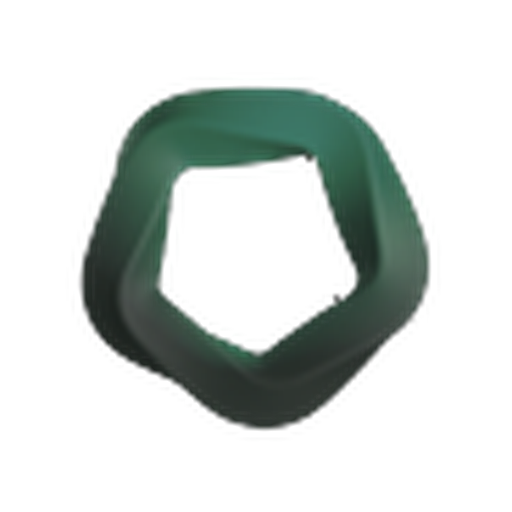
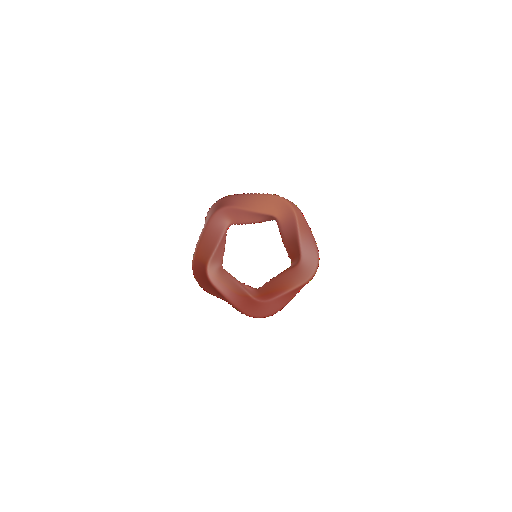
Rebrand to dark theme with terracotta #964132.
Swap logo and favicons, retint design tokens and hero mesh colors, and adjust a few hard-coded light/green surfaces so the existing layout reads high-tech dark without changing structure or motion.

Changed region(s): [[0.1562, 0.1562, 0.8438, 0.8438], [0.375, 0.375, 0.625, 0.625]]

diff --git a/src/components/marketing/talent-categories-section.tsx b/src/components/marketing/talent-categories-section.tsx
@@ -20,7 +20,7 @@ const talentServices: Service[] = [
     description:
       "Software engineers, architects, and specialists across hundreds of stacks — from backend systems to mobile and AI.",
     icon: Code,
-    gradient: "from-canvas via-[#e7f3ee] to-[#d8ebe3]",
+    gradient: "from-canvas via-[#1a1210] to-[#2a1814]",
   },
   {
     number: "002",
@@ -28,7 +28,7 @@ const talentServices: Service[] = [
     description:
       "Product, UI/UX, and brand designers who ship production interfaces, not just decks.",
     icon: Palette,
-    gradient: "from-[#eef4f1] via-canvas to-[#dce9e2]",
+    gradient: "from-[#161210] via-canvas to-[#241612]",
   },
   {
     number: "003",
@@ -36,7 +36,7 @@ const talentServices: Service[] = [
     description:
       "Operators who turn ambiguous problems into shipped roadmaps and measurable outcomes.",
     icon: RocketLaunch,
-    gradient: "from-[#e6f0eb] to-[#f3f7f5]",
+    gradient: "from-[#1c1411] to-[#120e0c]",
   },
   {
     number: "004",
@@ -44,7 +44,7 @@ const talentServices: Service[] = [
     description:
       "Data scientists, ML engineers, and applied researchers ready for production workloads.",
     icon: Brain,
-    gradient: "from-[#e0efe8] via-[#ebf5f0] to-canvas",
+    gradient: "from-[#201510] via-[#2a1814] to-canvas",
   },
   {
     number: "005",
@@ -52,7 +52,7 @@ const talentServices: Service[] = [
     description:
       "Growth, demand gen, and brand specialists who scale acquisition with accountability.",
     icon: ChartLineUp,
-    gradient: "from-canvas to-[#d9ebe3]",
+    gradient: "from-canvas to-[#241612]",
   },
   {
     number: "006",
@@ -60,7 +60,7 @@ const talentServices: Service[] = [
     description:
       "Technical PMs and scrum leaders who keep complex delivery on track.",
     icon: UsersThree,
-    gradient: "from-[#e8f2ed] to-[#f4f8f6]",
+    gradient: "from-[#1a1210] to-[#100e0c]",
   },
 ];
 

diff --git a/src/components/marketing/talent-photo-card.tsx b/src/components/marketing/talent-photo-card.tsx
@@ -22,7 +22,7 @@ export function TalentPhotoCard({ person }: { person: TalentPerson }) {
   const Icon = disciplineIcon[person.discipline];
 
   return (
-    <article className="group flex h-full min-h-[148px] overflow-hidden rounded-md bg-white shadow-[0_1px_2px_rgba(15,23,42,0.04),0_8px_24px_rgba(15,23,42,0.06)] ring-1 ring-black/[0.04] transition duration-300 ease-[cubic-bezier(0.22,1,0.36,1)] hover:-translate-y-0.5 hover:shadow-[0_2px_4px_rgba(15,23,42,0.05),0_16px_32px_rgba(15,23,42,0.1)]">
+    <article className="group flex h-full min-h-[148px] overflow-hidden rounded-md bg-panel shadow-[0_1px_2px_rgba(0,0,0,0.35),0_8px_24px_rgba(0,0,0,0.28)] ring-1 ring-white/[0.06] transition duration-300 ease-[cubic-bezier(0.22,1,0.36,1)] hover:-translate-y-0.5 hover:shadow-[0_2px_4px_rgba(0,0,0,0.4),0_16px_32px_rgba(0,0,0,0.35)]">
       <div className="relative w-[42%] shrink-0 self-stretch bg-canvas">
         <Image
           src={person.photo}
@@ -34,7 +34,7 @@ export function TalentPhotoCard({ person }: { person: TalentPerson }) {
       </div>
 
       <div className="flex min-w-0 flex-1 flex-col justify-center px-3.5 py-3.5 sm:px-4">
-        <h3 className="font-display text-[15px] font-semibold leading-snug tracking-tight text-ink sm:text-base">
+        <h3 className="font-display text-[15px] font-semibold leading-snug tracking-tight text-foreground sm:text-base">
           {person.name}
         </h3>
         <p className="mt-1.5 flex items-start gap-1.5 text-[13px] leading-snug text-muted">

diff --git a/src/app/globals.css b/src/app/globals.css
@@ -2,29 +2,29 @@
 
 :root {
   /* Brand / marketing (dark chamber) */
-  --ink: #07140f;
-  --ink-elevated: #0c1f18;
-  --signal-dark: #1fa97a;
-  --signal-dark-strong: #178a63;
-  --mist: #b7f0d4;
-  --chalk: #f3f7f5;
+  --ink: #050403;
+  --ink-elevated: #100e0c;
+  --signal-dark: #b54e3c;
+  --signal-dark-strong: #964132;
+  --mist: #e8d0c6;
+  --chalk: #f4efe9;
 
-  /* Work UI (light structural) */
-  --canvas: #f3f7f5;
-  --panel: #ffffff;
-  --foreground: #0c1410;
-  --muted: #5c6b63;
-  --line: #d5e0d9;
-  --signal: #0f8f6c;
-  --signal-strong: #0a6b51;
+  /* Work UI (dark structural) */
+  --canvas: #0b0a09;
+  --panel: #131110;
+  --foreground: #f4efe9;
+  --muted: #9a9188;
+  --line: #2a2622;
+  --signal: #964132;
+  --signal-strong: #7a3428;
 
   /* Semantic */
-  --danger: #c43c3c;
-  --warn: #c48a1a;
-  --ok: #1fa97a;
-  --focus: #1fa97a;
+  --danger: #e05a5a;
+  --warn: #d4a017;
+  --ok: #b54e3c;
+  --focus: #b54e3c;
 
-  /* Defaults for light surfaces */
+  /* Defaults for dark surfaces */
   --background: var(--canvas);
 }
 
@@ -55,6 +55,7 @@
 @layer base {
   html {
     scroll-behavior: smooth;
+    color-scheme: dark;
   }
 
   @media (prefers-reduced-motion: reduce) {
@@ -70,8 +71,8 @@
   }
 
   ::selection {
-    background: color-mix(in oklab, var(--signal) 35%, white);
-    color: var(--ink);
+    background: color-mix(in oklab, var(--signal) 45%, transparent);
+    color: var(--chalk);
   }
 
   :focus-visible {

diff --git a/src/components/skills/skill-talent-card.tsx b/src/components/skills/skill-talent-card.tsx
@@ -5,8 +5,8 @@ import type { ShowcaseTalent } from "@/lib/skills/types";
 
 export function SkillTalentCard({ person }: { person: ShowcaseTalent }) {
   return (
-    <article className="grid gap-6 rounded-lg border border-line bg-panel p-5 shadow-[0_1px_2px_rgba(15,23,42,0.04),0_8px_24px_rgba(15,23,42,0.04)] ring-1 ring-black/[0.03] transition duration-300 ease-[cubic-bezier(0.22,1,0.36,1)] hover:-translate-y-0.5 hover:border-signal/25 hover:shadow-[0_2px_4px_rgba(15,23,42,0.05),0_14px_28px_rgba(15,23,42,0.07)] sm:grid-cols-[160px_minmax(0,1fr)] sm:gap-8 sm:p-6">
-      <div className="relative mx-auto aspect-[4/5] w-full max-w-[160px] overflow-hidden rounded-md bg-canvas ring-1 ring-black/[0.04] sm:mx-0">
+    <article className="grid gap-6 rounded-lg border border-line bg-panel p-5 shadow-[0_1px_2px_rgba(0,0,0,0.35),0_8px_24px_rgba(0,0,0,0.28)] ring-1 ring-white/[0.06] transition duration-300 ease-[cubic-bezier(0.22,1,0.36,1)] hover:-translate-y-0.5 hover:border-signal/25 hover:shadow-[0_2px_4px_rgba(0,0,0,0.4),0_14px_28px_rgba(0,0,0,0.35)] sm:grid-cols-[160px_minmax(0,1fr)] sm:gap-8 sm:p-6">
+      <div className="relative mx-auto aspect-[4/5] w-full max-w-[160px] overflow-hidden rounded-md bg-canvas ring-1 ring-white/[0.06] sm:mx-0">
         <Image
           src={person.photo}
           alt={person.name}

diff --git a/src/components/ui/mesh-portfolio.tsx b/src/components/ui/mesh-portfolio.tsx
@@ -285,18 +285,28 @@ void main() {
 `
 
 const UNIFORMS = {
-  colors: [[0.9803921568627451,0.9803921568627451,0.9803921568627451],[0.9686274509803922,0.8431372549019608,0.592156862745098],[0.9686274509803922,0.7529411764705882,0.592156862745098],[0.9686274509803922,0.7529411764705882,0.592156862745098],[0.9686274509803922,0.7529411764705882,0.592156862745098],[0.9686274509803922,0.7529411764705882,0.592156862745098],[0.9686274509803922,0.7529411764705882,0.592156862745098],[0.9686274509803922,0.7529411764705882,0.592156862745098]] as [number, number, number][],
-  colorCount: 3,
+  // Dark tech fluid mesh: deep charcoal + brand terracotta (#964132) + warm highlights
+  colors: [
+    [0.039, 0.035, 0.031],
+    [0.102, 0.059, 0.047],
+    [0.588, 0.255, 0.196],
+    [0.769, 0.353, 0.259],
+    [0.910, 0.722, 0.604],
+    [0.588, 0.255, 0.196],
+    [0.102, 0.059, 0.047],
+    [0.039, 0.035, 0.031],
+  ] as [number, number, number][],
+  colorCount: 5,
   scale: 1.500,
   intensity: 0.500,
   paramA: 0.280,
   warp: 0.000,
   detail: 1.824,
   contrast: 0.987,
-  brightness: 0.000,
+  brightness: -0.040,
   saturation: 1.000,
   hue: 0.0000,
-  vignette: 0.000,
+  vignette: 0.180,
   blur: 0.0000,
   grain: 0.070,
   seed: 1.0,

diff --git a/src/components/marketing/feature-card.tsx b/src/components/marketing/feature-card.tsx
@@ -8,9 +8,9 @@ export type FeatureCardColors = {
 };
 
 export const sortieFeatureColors: FeatureCardColors = {
-  bg: "bg-[#eef6f2]",
+  bg: "bg-[#1a1412]",
   text: "text-signal",
-  border: "border-signal/15",
+  border: "border-signal/25",
 };
 
 type FeatureCardProps = {
@@ -32,7 +32,7 @@ export function FeatureCard({
 }: FeatureCardProps) {
   return (
     <div className={cn("relative w-full", className)}>
-      <div className="flex h-full flex-col rounded-[25px] border border-line bg-panel p-2 shadow-[0_10px_28px_rgba(15,23,42,0.08)] transition-transform duration-300 ease-[cubic-bezier(0.22,1,0.36,1)] hover:-translate-y-0.5 hover:shadow-[0_14px_32px_rgba(15,23,42,0.1)]">
+      <div className="flex h-full flex-col rounded-[25px] border border-line bg-panel p-2 shadow-[0_10px_28px_rgba(0,0,0,0.35)] transition-transform duration-300 ease-[cubic-bezier(0.22,1,0.36,1)] hover:-translate-y-0.5 hover:shadow-[0_14px_32px_rgba(0,0,0,0.45)]">
         <Icon
           className={cn("mx-auto mb-3 mt-2 h-8 w-8 shrink-0", colors.text)}
           weight="regular"

diff --git a/src/components/marketing/network-talent-card.tsx b/src/components/marketing/network-talent-card.tsx
@@ -27,7 +27,7 @@ export function NetworkTalentCard({ person }: { person: NetworkTalentPerson }) {
     disciplineIcon[person.discipline as keyof typeof disciplineIcon] ?? Code;
 
   return (
-    <article className="group flex h-full flex-col overflow-hidden rounded-md bg-panel shadow-[0_1px_2px_rgba(15,23,42,0.04),0_6px_18px_rgba(15,23,42,0.05)] ring-1 ring-black/[0.04] transition duration-300 ease-[cubic-bezier(0.22,1,0.36,1)] hover:-translate-y-0.5 hover:shadow-[0_2px_4px_rgba(15,23,42,0.05),0_12px_24px_rgba(15,23,42,0.08)]">
+    <article className="group flex h-full flex-col overflow-hidden rounded-md bg-panel shadow-[0_1px_2px_rgba(0,0,0,0.35),0_6px_18px_rgba(0,0,0,0.28)] ring-1 ring-white/[0.06] transition duration-300 ease-[cubic-bezier(0.22,1,0.36,1)] hover:-translate-y-0.5 hover:shadow-[0_2px_4px_rgba(0,0,0,0.4),0_12px_24px_rgba(0,0,0,0.35)]">
       <div className="relative aspect-[5/4] w-full shrink-0 bg-canvas">
         <Image
           src={person.photo}

diff --git a/src/lib/auth/email.ts b/src/lib/auth/email.ts
@@ -28,10 +28,10 @@ export async function sendAuthOtpEmail(input: {
     to: input.email,
     subject,
     html: `
-      <div style="font-family: Figtree, Helvetica, Arial, sans-serif; max-width: 480px; margin: 0 auto; color: #0c1410;">
+      <div style="font-family: Figtree, Helvetica, Arial, sans-serif; max-width: 480px; margin: 0 auto; color: #131110;">
         <p style="font-size: 16px; line-height: 1.5;">Your Sortie code is:</p>
-        <p style="font-size: 32px; letter-spacing: 0.2em; font-weight: 700; color: #0f8f6c;">${input.otp}</p>
-        <p style="font-size: 14px; color: #5c6b63; line-height: 1.5;">
+        <p style="font-size: 32px; letter-spacing: 0.2em; font-weight: 700; color: #964132;">${input.otp}</p>
+        <p style="font-size: 14px; color: #6b635c; line-height: 1.5;">
           This code expires in 10 minutes. If you didn’t request it, you can ignore this email.
         </p>
       </div>

diff --git a/src/components/ui/stagger-testimonials.tsx b/src/components/ui/stagger-testimonials.tsx
@@ -147,7 +147,7 @@ const TestimonialCard: React.FC<TestimonialCardProps> = ({
           rotate(${isCenter ? 0 : position % 2 ? 2.5 : -2.5}deg)
         `,
         boxShadow: isCenter
-          ? "0px 8px 0px 4px #d5e0d9"
+          ? "0px 8px 0px 4px #2a2622"
           : "0px 0px 0px 0px transparent",
       }}
     >
@@ -169,7 +169,7 @@ const TestimonialCard: React.FC<TestimonialCardProps> = ({
         alt={testimonial.by.split(",")[0]}
         className="mb-4 h-14 w-12 bg-canvas object-cover object-top"
         style={{
-          boxShadow: isCenter ? "3px 3px 0px #0a6b51" : "3px 3px 0px #f3f7f5",
+          boxShadow: isCenter ? "3px 3px 0px #964132" : "3px 3px 0px #2a2622",
         }}
       />
       <h3

diff --git a/src/components/marketing/site-header.tsx b/src/components/marketing/site-header.tsx
@@ -160,7 +160,7 @@ export function SiteHeader() {
       {open ? (
           <div
             id={menuId}
-            className="absolute inset-x-0 top-full z-50 hidden border-b border-line bg-panel shadow-[0_24px_48px_rgba(15,23,42,0.12)] lg:block"
+            className="absolute inset-x-0 top-full z-50 hidden border-b border-line bg-panel shadow-[0_24px_48px_rgba(0,0,0,0.45)] lg:block"
             onMouseEnter={openMenu}
             onMouseLeave={scheduleClose}
             role="region"

diff --git a/src/components/ui/logo-marquee.tsx b/src/components/ui/logo-marquee.tsx
@@ -132,7 +132,7 @@ const LogoImage = memo(function LogoImage({ logo }: { logo: Logo }) {
       width={logo.width}
       height={logo.height}
       loading="lazy"
-      className="pointer-events-none h-6 w-auto max-w-[7.5rem] object-contain object-center select-none opacity-90 md:h-7"
+      className="pointer-events-none h-6 w-auto max-w-[7.5rem] object-contain object-center select-none opacity-80 brightness-0 invert md:h-7"
       style={{ filter: "none" }}
     />
   );

diff --git a/src/components/ui/services-card.tsx b/src/components/ui/services-card.tsx
@@ -232,7 +232,7 @@ const ServiceCard = ({
         ease: [0.22, 1, 0.36, 1],
       }}
       className={cn(
-        "relative flex h-[420px] w-full flex-col justify-between overflow-hidden rounded-3xl bg-gradient-to-br p-8 ring-1 ring-black/[0.04]",
+        "relative flex h-[420px] w-full flex-col justify-between overflow-hidden rounded-3xl bg-gradient-to-br p-8 ring-1 ring-white/[0.06]",
         service.gradient,
       )}
     >
